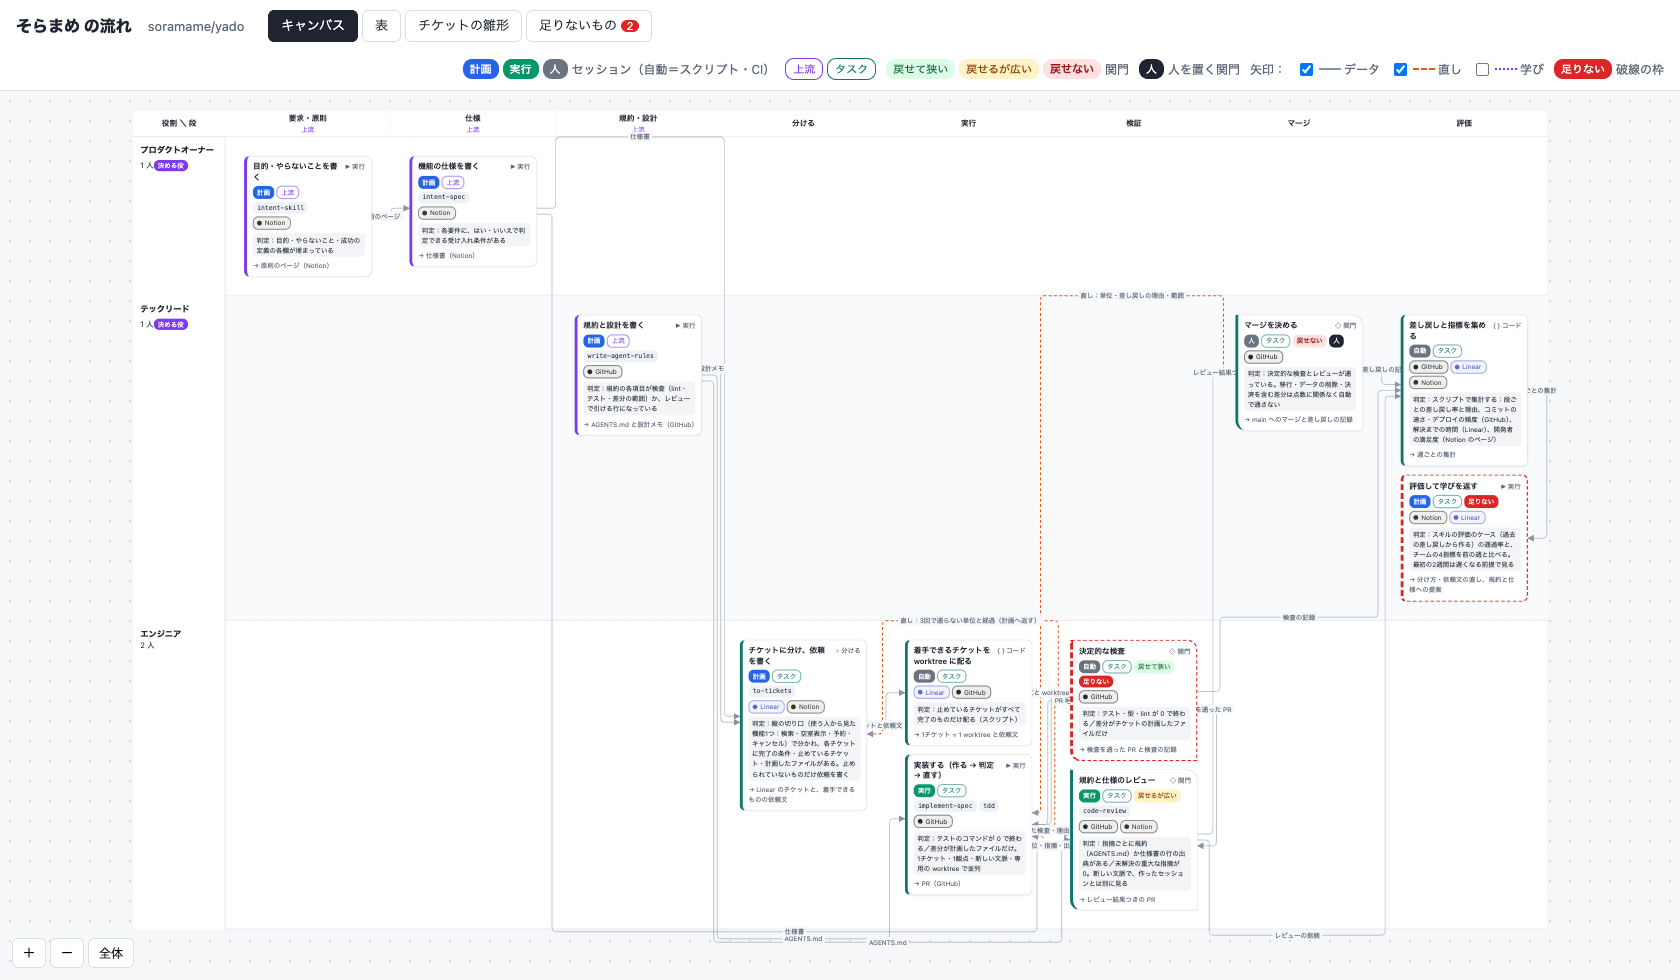
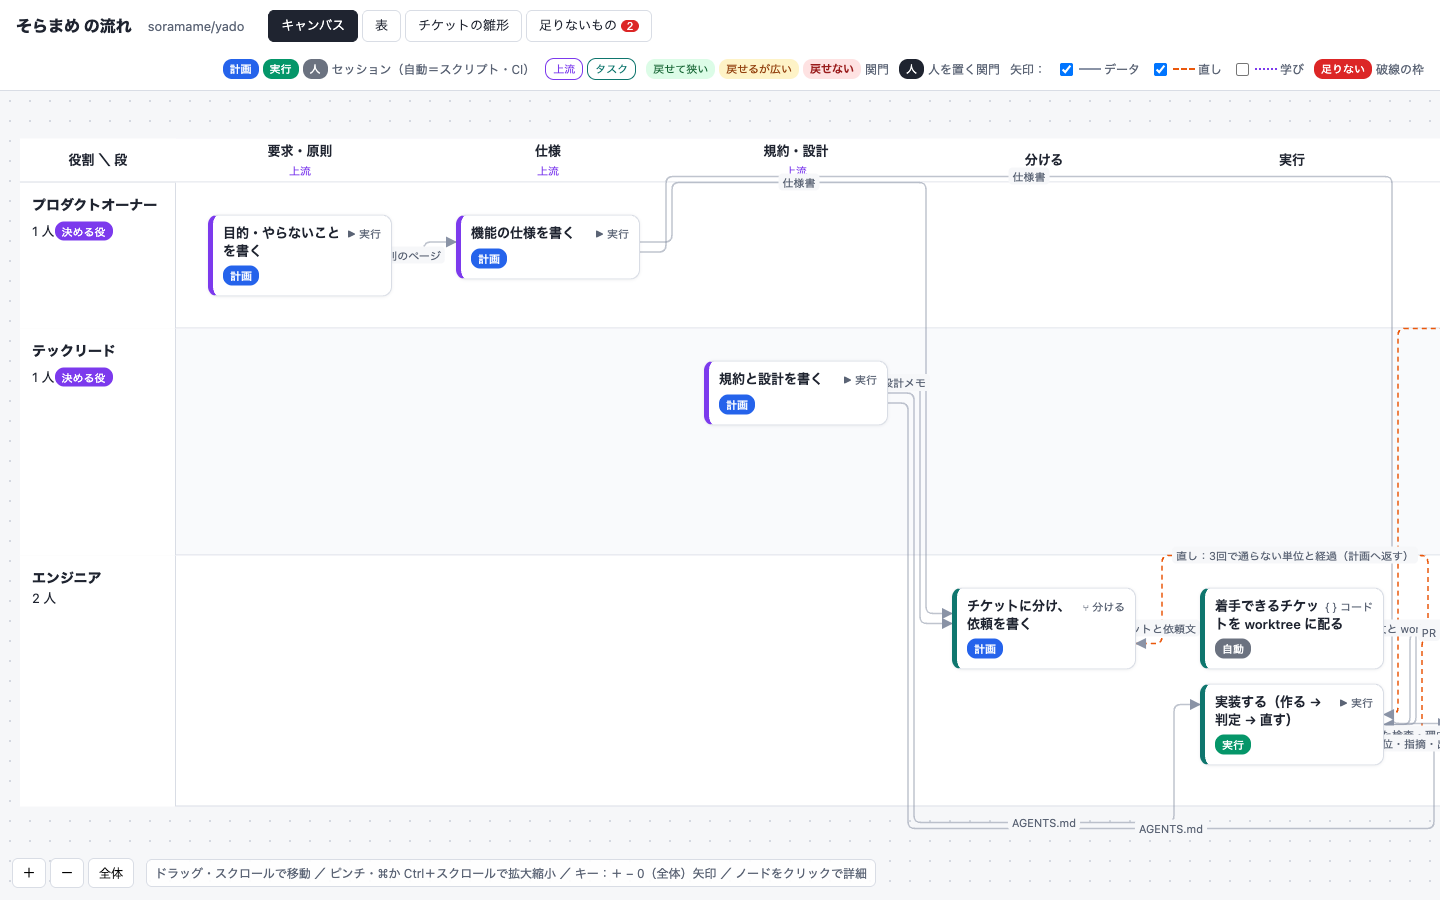
feat: canvas.html の掴みっぱなしを直し、スクロールで移動・ピンチで拡大にし、初回は文字が読める倍率で出す
- 左ボタンだけで掴み、pointerup・pointercancel・lostpointercapture・blur・visibilitychange で必ず放す
- 修飾キーなしのホイールで移動、ピンチと ⌘・Ctrl＋スクロールで拡大縮小、キー（+ − 0 矢印 Esc）、操作の一行ヒント
- カードは題名とバッジだけにし、詳細はクリックで出す。全体が読める倍率で収まらなければ、倍率 1 で流れの始まりを出す

diff --git a/create-frontier-team/canvas.html b/create-frontier-team/canvas.html
@@ -34,7 +34,7 @@
   section { position: absolute; inset: 0; overflow: auto; }
   section[hidden] { display: none; }
 
-  #viewport { position: absolute; inset: 0; overflow: hidden; cursor: grab; background-image: radial-gradient(#d4d8e0 1px, transparent 1px); background-size: 20px 20px; }
+  #viewport { position: absolute; inset: 0; overflow: hidden; cursor: grab; user-select: none; -webkit-user-select: none; touch-action: none; background-image: radial-gradient(#d4d8e0 1px, transparent 1px); background-size: 20px 20px; }
   #viewport.dragging { cursor: grabbing; }
   #world { position: absolute; left: 0; top: 0; transform-origin: 0 0; }
   #edges { position: absolute; left: 0; top: 0; overflow: visible; pointer-events: none; }
@@ -46,7 +46,7 @@
   .col-head small { font-weight: 400; color: var(--upstream); font-size: 11px; }
   .col-tint { position: absolute; background: var(--upstream-tint); }
 
-  .node { position: absolute; width: 216px; background: var(--panel); border: 1px solid var(--line); border-left: 5px solid var(--task); border-radius: 10px; padding: 9px 10px 10px; font-size: 12px; box-shadow: 0 1px 3px rgba(20,30,50,.08); cursor: pointer; user-select: none; }
+  .node { position: absolute; width: 184px; background: var(--panel); border: 1px solid var(--line); border-left: 5px solid var(--task); border-radius: 10px; padding: 9px 10px 10px; font-size: 12px; box-shadow: 0 1px 3px rgba(20,30,50,.08); cursor: pointer; user-select: none; }
   .node.upstream { border-left-color: var(--upstream); }
   .node.gap { border: 2px dashed var(--gap); border-left-width: 5px; }
   .node.selected { box-shadow: 0 0 0 3px var(--sel); }
@@ -69,8 +69,6 @@
   .chip.risk-wide { background: #fef3c7; color: #92400e; }
   .chip.risk-irreversible { background: #fee2e2; color: #991b1b; font-weight: 600; }
   .chip.humanflag { background: var(--ink); color: #fff; }
-  .node .check { margin-top: 6px; font-size: 11px; color: var(--ink); background: #f3f4f6; border-radius: 6px; padding: 3px 6px; }
-  .node .out { margin-top: 6px; color: var(--sub); font-size: 11px; }
   .edge-label { font-size: 11px; fill: var(--sub); }
   .edge-label-bg { fill: var(--bg); }
   path.edge { fill: none; stroke: var(--edge); stroke-width: 1.6; stroke-opacity: .55; }
@@ -92,9 +90,10 @@
   #detail dd { margin: 2px 0 0; display: flex; flex-wrap: wrap; gap: 4px; }
   #detail .close { position: absolute; right: 10px; top: 8px; border: none; background: none; font-size: 18px; cursor: pointer; color: var(--sub); }
   #detail .gaptext { color: var(--gap); }
-  .zoom { position: absolute; left: 12px; bottom: 12px; display: flex; gap: 4px; }
+  .zoom { position: absolute; left: 12px; bottom: 12px; display: flex; gap: 4px; align-items: center; }
   .zoom button { width: 34px; height: 30px; border: 1px solid var(--line); background: var(--panel); border-radius: 6px; cursor: pointer; font-size: 14px; }
   .zoom button.wide { width: auto; padding: 0 10px; font-size: 12px; }
+  .zoom .hint { margin-left: 8px; padding: 4px 8px; font-size: 12px; color: var(--sub); background: rgba(255,255,255,.9); border: 1px solid var(--line); border-radius: 6px; }
 
   .doc { padding: 20px 24px; max-width: 1200px; }
   table { border-collapse: collapse; width: 100%; background: var(--panel); font-size: 13px; }
@@ -131,9 +130,10 @@
     <div id="viewport"><div id="world"><svg id="edges"></svg></div></div>
     <aside id="detail" hidden></aside>
     <div class="zoom">
-      <button id="zoomIn" title="拡大">＋</button>
-      <button id="zoomOut" title="縮小">－</button>
-      <button id="zoomFit" class="wide" title="全体を表示">全体</button>
+      <button id="zoomIn" title="拡大（+）" aria-label="拡大">＋</button>
+      <button id="zoomOut" title="縮小（-）" aria-label="縮小">－</button>
+      <button id="zoomFit" class="wide" title="全体を表示（0）">全体</button>
+      <span class="hint">ドラッグ・スクロールで移動 ／ ピンチ・⌘か Ctrl＋スクロールで拡大縮小 ／ キー：＋ − 0（全体）矢印 ／ ノードをクリックで詳細</span>
     </div>
   </section>
   <section id="tableView" hidden><div class="doc" id="tableDoc"></div></section>
@@ -223,7 +223,7 @@
   const stageName = (id) => stages[stageIx.get(id)].name;
 
   // ---- キャンバス ----
-  const COL_W = 280, NODE_W = 216, HEAD_W = 156, HEAD_H = 44, PAD = 32, GAP_Y = 14, MIN_LANE = 110;
+  const COL_W = 248, NODE_W = 184, HEAD_W = 156, HEAD_H = 44, PAD = 32, GAP_Y = 14, MIN_LANE = 110;
   const world = document.getElementById("world"), svg = document.getElementById("edges"), viewport = document.getElementById("viewport");
   const nodeEls = new Map();
   nodes.forEach((n) => {
@@ -231,14 +231,11 @@
     d.dataset.id = n.id;
     if (KIND[n.kind]) d.append(el("span", "kind", KIND[n.kind]));
     d.append(el("div", "title", n.title));
-    const r1 = el("div", "row"); r1.append(sessionChip(n.session, n.auto), layerChip(n.layer));
+    // カードは題名とバッジだけ。スキル・ツール・判定・成果物は、クリックで出る詳細と表のタブに出す。
+    const r1 = el("div", "row"); r1.append(sessionChip(n.session, n.auto));
     if (n.kind === "gate") r1.append(riskChip(n.risk));
     if (n.human) r1.append(el("span", "chip humanflag", "人"));
     if (n.isGap) r1.append(el("span", "chip gapflag", "足りない")); d.append(r1);
-    if (n.skills.length) { const r = el("div", "row"); n.skills.forEach((s) => r.append(el("span", "chip skill", s))); d.append(r); }
-    if (n.tools.length) { const r = el("div", "row"); n.tools.forEach((t) => r.append(toolBadge(t))); d.append(r); }
-    if (n.check) d.append(el("div", "check", "判定：" + n.check));
-    if (n.output) d.append(el("div", "out", "→ " + n.output));
     world.append(d); nodeEls.set(n.id, d);
   });
 
@@ -304,8 +301,10 @@
   nodes.forEach((n) => {
     const outs = edges.filter((e) => e.from === n.id).sort((x, y) => cy(x.to) - cy(y.to));
     const ins = edges.filter((e) => e.to === n.id).sort((x, y) => cy(x.from) - cy(y.from));
-    outs.forEach((e, k) => { e._sy = cy(n.id) + (k - (outs.length - 1) / 2) * 10; });
-    ins.forEach((e, k) => { e._ty = cy(n.id) + (k - (ins.length - 1) / 2) * 10; });
+    // 口の間隔は 10px。本数が多くてカードからはみ出すときは、カードの高さに収まるよう詰める。
+    const step = (m) => (m > 1 ? Math.min(10, (pos.get(n.id).h - 16) / (m - 1)) : 0);
+    outs.forEach((e, k) => { e._sy = cy(n.id) + (k - (outs.length - 1) / 2) * step(outs.length); });
+    ins.forEach((e, k) => { e._ty = cy(n.id) + (k - (ins.length - 1) / 2) * step(ins.length); });
   });
   // 引いた線の縦・横の線分。横の線を通す境目は、これと交わる数がいちばん少ないものを選ぶ。
   const segs = [];
@@ -396,20 +395,80 @@
   Object.assign(svg.style, { width: W + "px", height: H + "px" }); svg.setAttribute("width", W); svg.setAttribute("height", H);
   world.style.width = W + "px"; world.style.height = H + "px";
 
-  // パンとズーム
+  // パンとズーム。初めは文字が読める倍率（題名 13px が 12px 以上）で流れの始まりを出す。全体が読める倍率で収まるときは全体を出す。
+  const READABLE = 12 / 13;
   let k = 1, tx = 0, ty = 0;
-  const apply = () => { world.style.transform = `translate(${tx}px,${ty}px) scale(${k})`; };
+  const clampPan = () => {
+    const vw = viewport.clientWidth, vh = viewport.clientHeight, m = 80;
+    tx = Math.min(vw - m, Math.max(m - W * k, tx)); ty = Math.min(vh - m, Math.max(m - H * k, ty));
+  };
+  const apply = () => { clampPan(); world.style.transform = `translate(${tx}px,${ty}px) scale(${k})`; };
   const zoomAt = (f, cx, cy) => { const nk = Math.min(2.5, Math.max(0.2, k * f)); tx = cx - (cx - tx) * (nk / k); ty = cy - (cy - ty) * (nk / k); k = nk; apply(); };
-  const fit = () => { const vw = viewport.clientWidth, vh = viewport.clientHeight; k = Math.min(1, (vw - 40) / W, (vh - 40) / H); tx = (vw - W * k) / 2; ty = Math.max(20, (vh - H * k) / 2); apply(); };
-  viewport.addEventListener("wheel", (ev) => { ev.preventDefault(); const r = viewport.getBoundingClientRect(); zoomAt(Math.exp(-ev.deltaY * 0.0015), ev.clientX - r.left, ev.clientY - r.top); }, { passive: false });
+  const fitScale = () => Math.min(1, (viewport.clientWidth - 40) / W, (viewport.clientHeight - 40) / H);
+  const fit = () => { const vw = viewport.clientWidth, vh = viewport.clientHeight; k = fitScale(); tx = (vw - W * k) / 2; ty = Math.max(20, (vh - H * k) / 2); apply(); };
+  const home = () => {
+    if (fitScale() >= READABLE) { fit(); return; }
+    const vh = viewport.clientHeight; k = 1; tx = 20; ty = Math.max(20, (vh - H) / 2); apply();
+  };
+  const panBy = (dx, dy) => { tx -= dx; ty -= dy; apply(); };
+  // ホイール：そのままなら移動（トラックパッドの二本指、マウスのホイール、Shift＋ホイールで横）。
+  // ピンチ（ブラウザは ctrlKey 付きの wheel で送る）と ⌘・Ctrl＋スクロールは拡大縮小。
+  viewport.addEventListener("wheel", (ev) => {
+    ev.preventDefault();
+    const unit = ev.deltaMode === 1 ? 16 : ev.deltaMode === 2 ? viewport.clientHeight : 1;
+    let dx = ev.deltaX * unit, dy = ev.deltaY * unit;
+    if (ev.ctrlKey || ev.metaKey) {
+      const r = viewport.getBoundingClientRect(), d = Math.max(-30, Math.min(30, dy));
+      zoomAt(Math.exp(-d * 0.008), ev.clientX - r.left, ev.clientY - r.top); return;
+    }
+    if (ev.shiftKey && !dx) { dx = dy; dy = 0; }
+    panBy(dx, dy);
+  }, { passive: false });
+  // ドラッグで移動。左ボタンだけで掴み、離した・取り消された・掴みが外れた・フォーカスが外れたときは必ず放す。
   let drag = null;
-  viewport.addEventListener("pointerdown", (ev) => { if (ev.target.closest(".node")) return; drag = { x: ev.clientX - tx, y: ev.clientY - ty, moved: false }; viewport.classList.add("dragging"); viewport.setPointerCapture(ev.pointerId); });
-  viewport.addEventListener("pointermove", (ev) => { if (!drag) return; tx = ev.clientX - drag.x; ty = ev.clientY - drag.y; drag.moved = true; apply(); });
-  viewport.addEventListener("pointerup", (ev) => { if (drag && !drag.moved) select(null); drag = null; viewport.classList.remove("dragging"); });
+  const endDrag = () => {
+    const d = drag; if (!d) return null;
+    drag = null; viewport.classList.remove("dragging");
+    try { if (viewport.hasPointerCapture(d.id)) viewport.releasePointerCapture(d.id); } catch (_) { /* 掴みがもう無い */ }
+    return d;
+  };
+  viewport.addEventListener("pointerdown", (ev) => {
+    if (ev.button !== 0 || ev.target.closest(".node")) return;
+    endDrag(); ev.preventDefault();
+    drag = { id: ev.pointerId, x: ev.clientX, y: ev.clientY, tx, ty, moved: false };
+    viewport.classList.add("dragging");
+    try { viewport.setPointerCapture(ev.pointerId); } catch (_) { /* 掴めなくても、離したときの処理で放す */ }
+  });
+  viewport.addEventListener("pointermove", (ev) => {
+    if (!drag || ev.pointerId !== drag.id) return;
+    if (ev.buttons === 0) { endDrag(); return; }
+    const dx = ev.clientX - drag.x, dy = ev.clientY - drag.y;
+    if (!drag.moved && Math.hypot(dx, dy) < 4) return;
+    drag.moved = true; tx = drag.tx + dx; ty = drag.ty + dy; apply();
+  });
+  viewport.addEventListener("pointerup", (ev) => { if (!drag || ev.pointerId !== drag.id) return; const d = endDrag(); if (!d.moved) select(null); });
+  viewport.addEventListener("pointercancel", endDrag);
+  viewport.addEventListener("lostpointercapture", endDrag);
+  viewport.addEventListener("dragstart", (ev) => ev.preventDefault());
+  window.addEventListener("blur", endDrag);
+  document.addEventListener("visibilitychange", () => { if (document.hidden) endDrag(); });
   const center = () => [viewport.clientWidth / 2, viewport.clientHeight / 2];
   document.getElementById("zoomIn").onclick = () => zoomAt(1.2, ...center());
   document.getElementById("zoomOut").onclick = () => zoomAt(1 / 1.2, ...center());
   document.getElementById("zoomFit").onclick = fit;
+  // キー：+ と -（JIS の + は Shift＋; なので = も）で拡大縮小、0 で全体、矢印で移動（Shift で大きく）、Esc で選択を外す。
+  // ⌘・Ctrl・Alt 付きはブラウザに任せる。
+  document.addEventListener("keydown", (ev) => {
+    if (document.getElementById("canvasView").hidden || ev.ctrlKey || ev.metaKey || ev.altKey) return;
+    if (ev.target.closest && ev.target.closest("input, textarea, select, [contenteditable]")) return;
+    const step = ev.shiftKey ? 320 : 80;
+    const act = { "+": () => zoomAt(1.2, ...center()), "=": () => zoomAt(1.2, ...center()),
+      "-": () => zoomAt(1 / 1.2, ...center()), "_": () => zoomAt(1 / 1.2, ...center()), "0": fit,
+      ArrowLeft: () => panBy(-step, 0), ArrowRight: () => panBy(step, 0), ArrowUp: () => panBy(0, -step), ArrowDown: () => panBy(0, step),
+      Escape: () => select(null) }[ev.key];
+    if (!act) return;
+    ev.preventDefault(); act();
+  });
 
   // 詳細
   const detail = document.getElementById("detail");
@@ -490,10 +549,10 @@
   document.querySelectorAll("nav button").forEach((b) => b.addEventListener("click", () => {
     document.querySelectorAll("nav button").forEach((x) => x.setAttribute("aria-selected", String(x === b)));
     document.querySelectorAll("main > section").forEach((sec) => { sec.hidden = sec.id !== b.dataset.tab; });
-    if (b.dataset.tab === "canvasView") fit();
+    if (b.dataset.tab === "canvasView") home();
   }));
-  fit();
-  window.addEventListener("resize", fit);
+  home();
+  window.addEventListener("resize", home);
 })();
 </script>
 </body>
